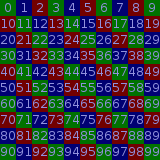
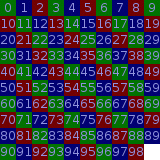
fixed terrain

Changed region(s): [[0.875, 0.875, 1.0, 1.0]]

diff --git a/src/org/jcing/jcingworld/engine/terrain/Terrain.java b/src/org/jcing/jcingworld/engine/terrain/Terrain.java
@@ -254,6 +254,7 @@ public class Terrain {
 	private static int tex = 0;
 
 	private void generateTiles() {
+		tex=0;
 		tiles = new Tile[TILE_COUNT][TILE_COUNT];
 		float SQUARE_SIZE = Terrain.TILE_SIZE / 2;
 		//		System.err.println(textureAtlas.getNumTextures() + " here: " + ((int)getGridX()) % (textureAtlas.getNumTextures()-2));
@@ -264,10 +265,14 @@ public class Terrain {
 				float z[] = { i * SQUARE_SIZE, i * SQUARE_SIZE, (i + 1) * SQUARE_SIZE, (i + 1) * SQUARE_SIZE };
 				// tiles[j / 2][i / 2] = new Tile(x, y, z, j / 2, i / 2,
 				// (int) (Math.random() * textureAtlas.getNumTextures()));
+				tex = (int)(Math.random()*textureAtlas.getNumTextures());
+				if(Math.random()*100<80){
+					tex %= 3;
+				}
 				tiles[j / 2][i / 2] = new Tile(x, y, z, j / 2, i / 2,tex);
 						//(int) (Math.random() * textureAtlas.getNumTextures()));
 			}
-			tex = (int) (Math.random() * textureAtlas.getNumTextures() - 1);
+//			tex = (int) (Math.random() * textureAtlas.getNumTextures() - 1);
 
 		}
 
@@ -340,7 +345,7 @@ public class Terrain {
 			int side = checkSide(terrain);
 			Logs.terrainRegistering.println("### registering " + terrain.getCoordinateString() + " at "
 					+ getCoordinateString() + "(side " + side + ")");
-//			if (side == 0)
+//			if (side == 3)
 				setTileBorder(terrain.getTileBorder(side), side);
 			if (first)
 				terrain.registerNeighbour(this, false);
@@ -379,28 +384,28 @@ public class Terrain {
 	 */
 	public Tile[] getTileBorder(int index) {
 		// R B L T
-		Tile[] border = new Tile[tiles[0].length];
+		Tile[] border = new Tile[tiles[0].length-1];
 		switch (index) {
 		case 0:
 			//+X
-			for (int i = 0; i < tiles.length; i++) {
+			for (int i = 0; i < border.length; i++) {
 				border[i] = tiles[i][0];
 			}
 			return border;
 		case 1:
-			for (int i = 0; i < tiles.length; i++) {
+			for (int i = 0; i < border.length; i++) {
 				border[i] = tiles[0][i];
 			}
 			return border;
 		case 2:
 			//left border
-			for (int i = 0; i < tiles.length; i++) {
-				border[i] = tiles[i][tiles.length-1];
+			for (int i = 0; i < border.length; i++) {
+				border[i] = tiles[i][tiles.length-2];
 			}
 			return border;
 		case 3:
-			for (int i = 0; i < tiles.length; i++) {
-				border[i] = tiles[tiles.length-1][i];
+			for (int i = 0; i < border.length; i++) {
+				border[i] = tiles[tiles.length-2][i];
 			}
 			return border;
 
@@ -418,7 +423,7 @@ public class Terrain {
 			out.println("SETTING " + getCoordinateString() + "(left side)");
 			for (int i = 0; i < tiles.length; i++) {
 				//works
-				tileTextureIndices[(TILE_TEX_INDICE_COUNT - 1) * (TILE_TEX_INDICE_COUNT) + i] = tiles[i].textureIndex;
+				tileTextureIndices[(TILE_TEX_INDICE_COUNT - 1) * (TILE_TEX_INDICE_COUNT) + (i+1)] = tiles[i].textureIndex;
 			}
 
 			break;
@@ -433,7 +438,7 @@ public class Terrain {
 			out.println("SETTING " + getCoordinateString() + "(right side)");
 			for (int i = 0; i < tiles.length; i++) {
 				//				this.tiles[i][this.tiles[i].length - 1] = tiles[i];
-				tileTextureIndices[i] = tiles[i].textureIndex;
+				tileTextureIndices[i+1] = tiles[i].textureIndex;
 			}
 
 			break;

diff --git a/src/org/jcing/jcingworld/engine/terrain/TerrainManager.java b/src/org/jcing/jcingworld/engine/terrain/TerrainManager.java
@@ -28,8 +28,8 @@ public class TerrainManager {
         actives = new LinkedList<Point>();
         this.loader = loader;
         this.renderer = renderer;
-        blendMap = loader.loadTexture("terrain/blendmapX.png", false);
-        atlas = new TextureAtlas("colors", loader);
+        blendMap = loader.loadTexture("terrain/blend/32.png", false);
+        atlas = new TextureAtlas("/terrain/stone", loader);
     }
 
     public Terrain getTerrain(int x, int z) {
